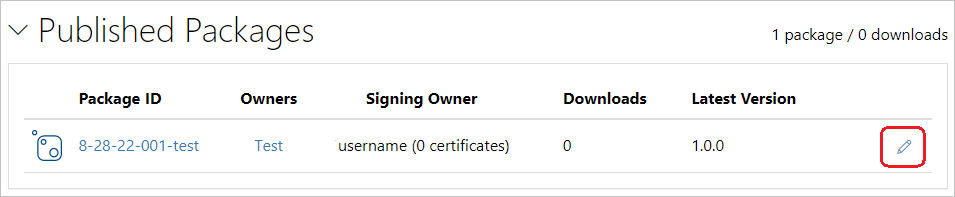
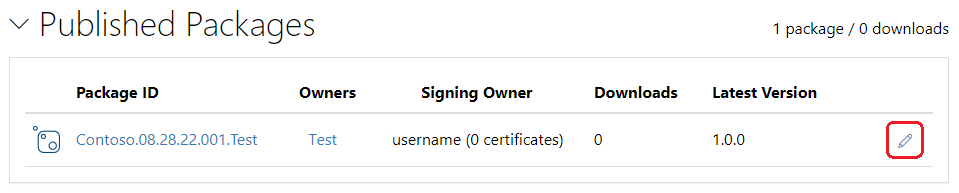
update pkg name

diff --git a/docs/quickstart/create-and-publish-a-package-using-the-dotnet-cli.md b/docs/quickstart/create-and-publish-a-package-using-the-dotnet-cli.md
@@ -34,14 +34,14 @@ Every NuGet package has a manifest that describes the package's contents and dep
 Open the *.csproj*, *.fproj*, or *.vbproj* project file, and add the following properties inside the existing `<PropertyGroup>` tag. Use your own values for name and company, and replace the package identifier with a unique value.
 
 ```xml
-<PackageId>8-28-22-001-test</PackageId>
+<PackageId>Contoso.08.28.22.001.Test</PackageId>
 <Version>1.0.0</Version>
 <Authors>your_name</Authors>
 <Company>your_company</Company>
 ```
 
 > [!Important]
-> The package identifier must be unique across nuget.org or other host. Publishing makes the package publicly visible, so if you use the example AppLogger library or other test library, use a unique name that includes `sample` or `test`.
+> The package identifier must be unique across nuget.org or other host. Publishing makes the package publicly visible, so if you use the example AppLogger library or other test library, use a unique name that includes `Sample` or `Test`.
 
 You can add any optional properties described in [NuGet metadata properties](/dotnet/core/tools/csproj#nuget-metadata-properties).
 
@@ -63,7 +63,7 @@ MSBuild version 17.3.0+92e077650 for .NET
   Determining projects to restore...
   Restored C:\Users\myname\source\repos\AppLogger\AppLogger.csproj (in 64 ms).
   AppLogger -> C:\Users\myname\source\repos\AppLogger\bin\Debug\net6.0\AppLogger.dll
-  Successfully created package 'C:\Users\myname\source\repos\AppLogger\bin\Debug\8-28-22-001-test.1.0.0.nupkg'.
+  Successfully created package 'C:\Users\myname\source\repos\AppLogger\bin\Debug\Contoso.08.28.22.001.Test.1.0.0.nupkg'.
   ```
 
 ### Automatically generate package on build

diff --git a/docs/quickstart/includes/publish-dotnet.md b/docs/quickstart/includes/publish-dotnet.md
@@ -1,13 +1,13 @@
 From the folder that contains the *.nupkg* file, run the following command. Specify your unique package ID, and replace the key value with your API key.
 
 ```dotnetcli
-dotnet nuget push 8-28-22-001-test.1.0.0.nupkg --api-key qz2jga8pl3dvn2akksyquwcs9ygggg4exypy3bhxy6w6x6 --source https://api.nuget.org/v3/index.json
+dotnet nuget push Contoso.08.28.22.001.Test.1.0.0.nupkg --api-key qz2jga8pl3dvn2akksyquwcs9ygggg4exypy3bhxy6w6x6 --source https://api.nuget.org/v3/index.json
 ```
 
 The output shows the results of the publishing process:
 
 ```output
-Pushing 8-28-22-001-test.1.0.0.nupkg to 'https://www.nuget.org/api/v2/package'...
+Pushing Contoso.08.28.22.001.Test.1.0.0.nupkg to 'https://www.nuget.org/api/v2/package'...
   PUT https://www.nuget.org/api/v2/package/
 warn : All published packages should have license information specified. Learn more: https://aka.ms/nuget/authoring-best-practices#licensing.
   Created https://www.nuget.org/api/v2/package/ 1221ms
